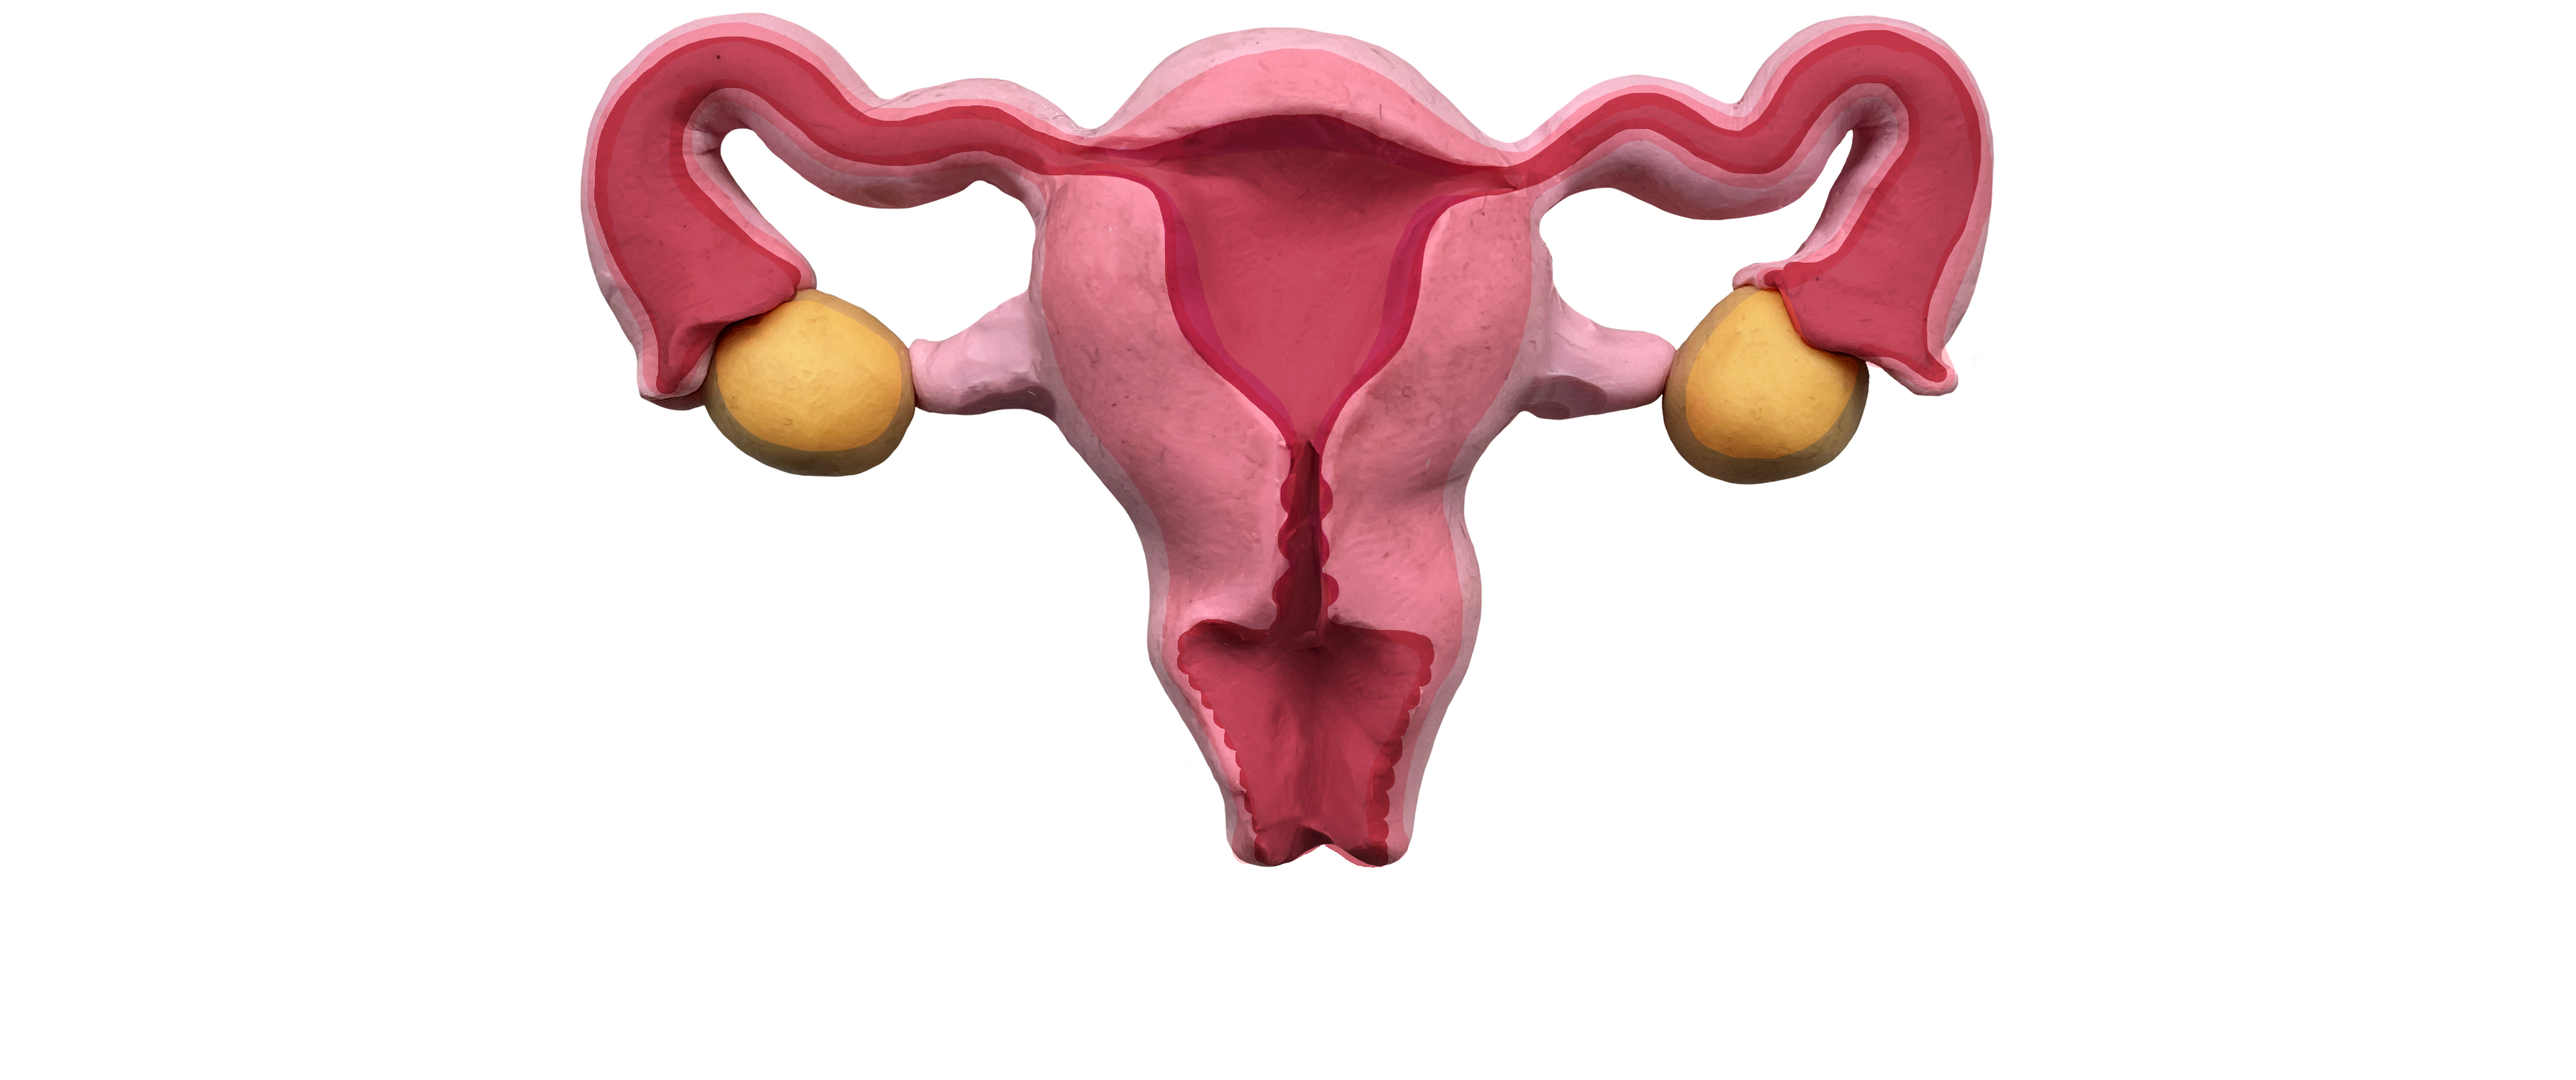
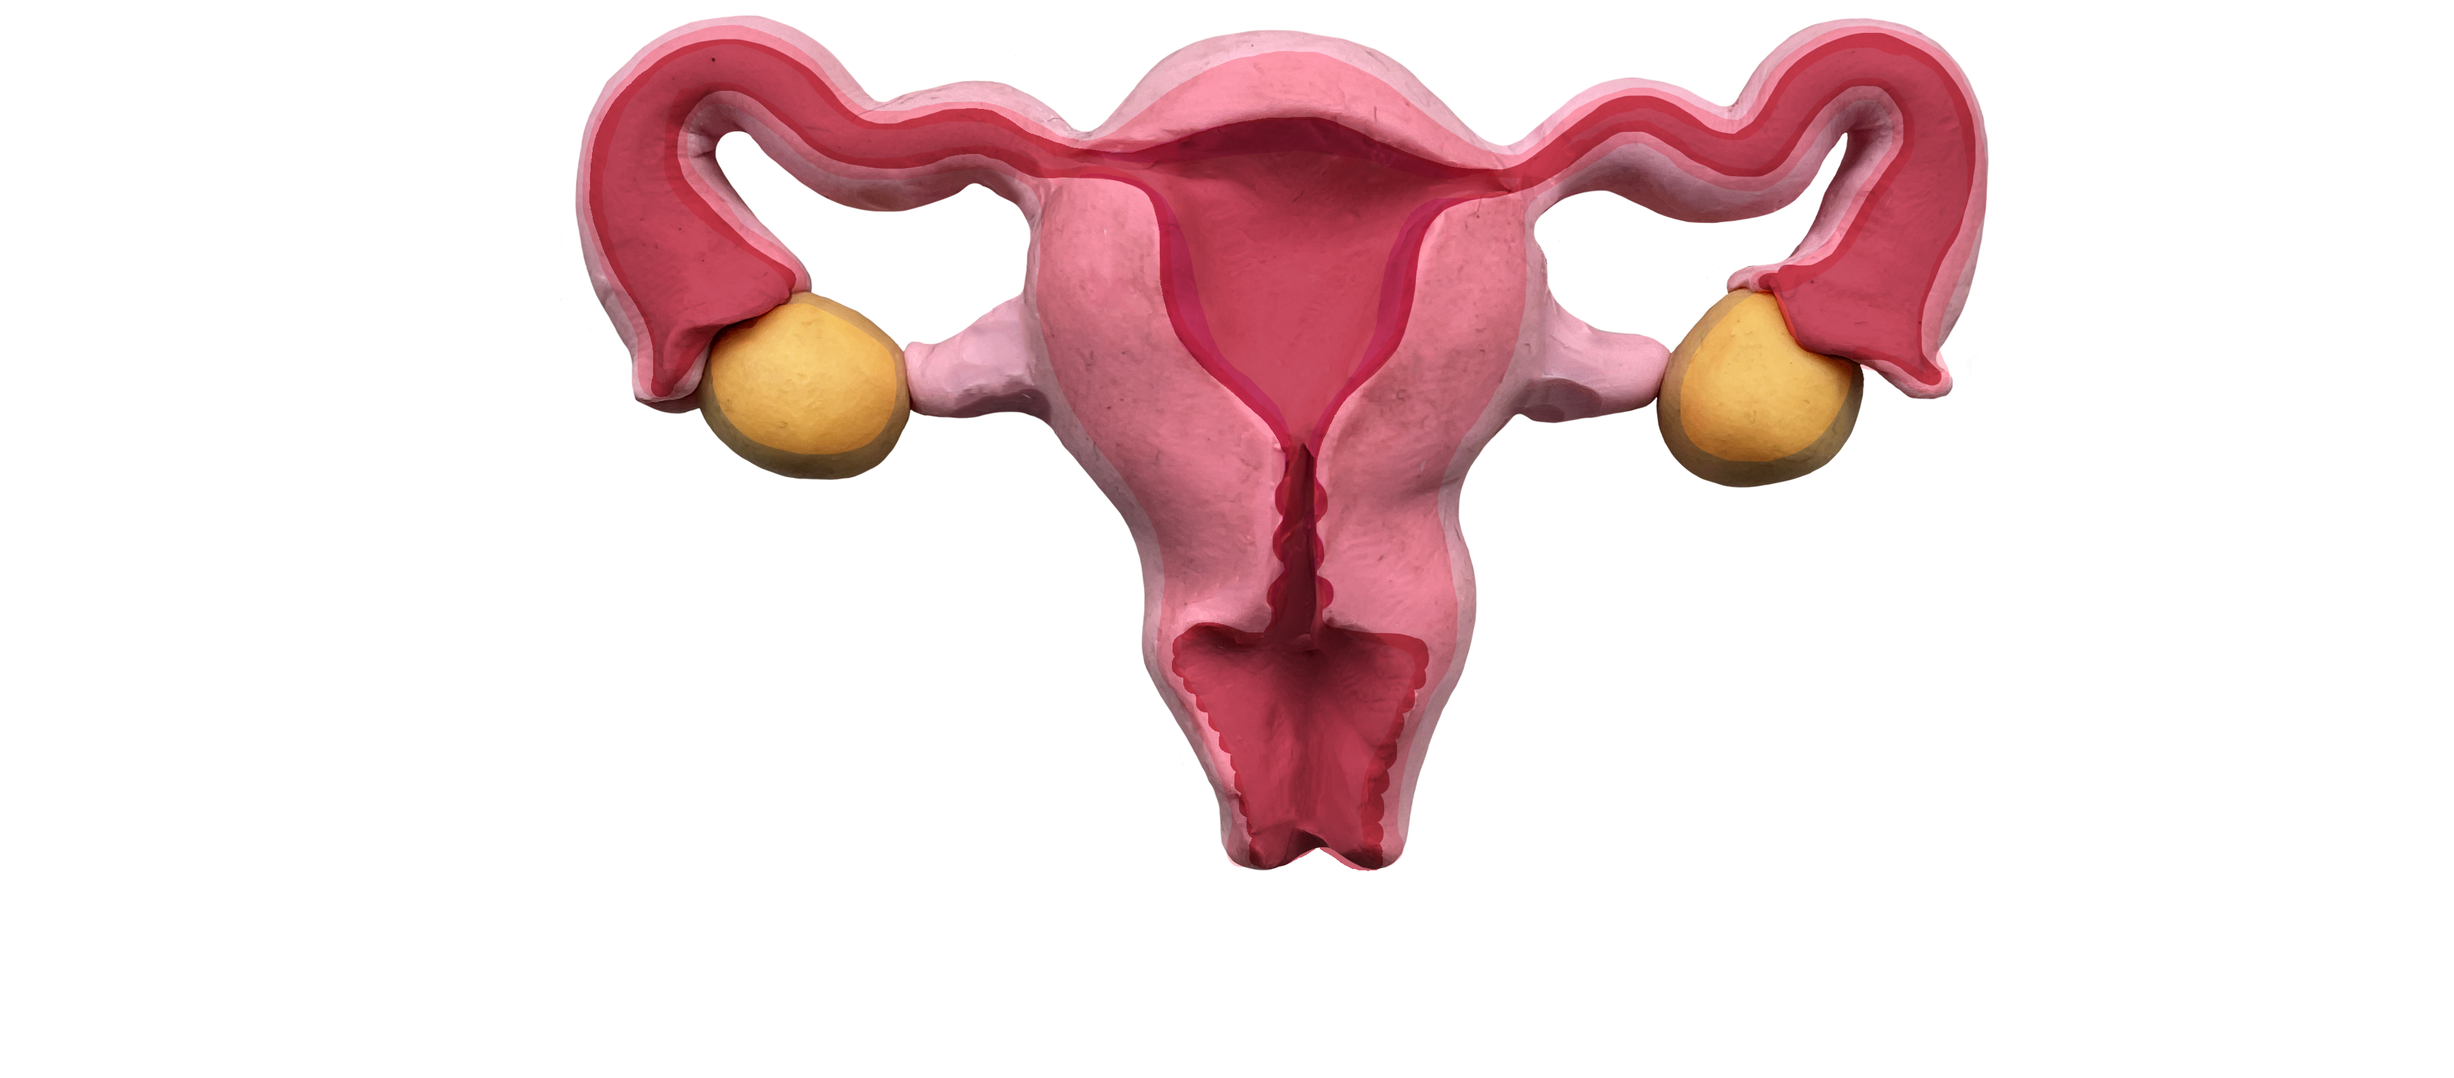
Added highlights for mobile

Changed region(s): [[0.2185, 0.0, 0.8116, 0.8105]]

diff --git a/src/pages/Game.tsx b/src/pages/Game.tsx
@@ -1,6 +1,6 @@
 import { useState } from "react";
 import diagram from "../images/Female internal/Diagram.png";
-import labels from "../images/Female internal";
+import { labels, highlights } from "../images/Female internal";
 import { today } from "../util/dates";
 import type { FormEvent } from "react";
 import { useLocalStorage } from "../hooks/useLocalStorage";
@@ -9,8 +9,14 @@ import parts from "../data/parts.json";
 import { Link } from "react-router-dom";
 import { Part, StoredGuesses } from "../lib/types";
 import { answer } from "../util/answer";
+import { BrowserView } from "react-device-detect";
 
 // const parts: Part[] = untypedParts;
+
+// TODO remove diagram labels on mobile and rely on highlights instead
+// TODO change labels from PNGs to SVGs
+// TODO I want to be able to click on labels to highlight the parts.
+// This can be done with SVGs and pointer event CSS
 
 export default function Game() {
   const [guessName, setGuessName] = useState("");
@@ -18,6 +24,7 @@ export default function Game() {
   const [win, setWin] = useState("");
   const [female, setFemale] = useState(true);
   const [internal, setInternal] = useState(true);
+  const [highlight, setHighlight] = useState("");
   const [storedGuesses, storeGuesses] = useLocalStorage<StoredGuesses>(
     "guesses",
     {
@@ -61,6 +68,7 @@ export default function Game() {
     if (validGuess) {
       setGuesses([...guesses, validGuess]);
       setGuessName("");
+      setHighlight(validGuess.name);
     }
   }
 
@@ -87,7 +95,8 @@ export default function Game() {
             onChange={(e) => setGuessName(e.currentTarget.value)}
             autoComplete="new-password"
             disabled={!!win}
-            className="border-[1px] border-black mx-2 px-2 py-1 bg-white w-full sm:w-fit"
+            className="border-[1px] border-black mx-2 px-2 py-1 
+            bg-white disabled:bg-gray-200 w-full sm:w-fit"
           />
           <ButtonSwitch win={win} />
         </div>
@@ -98,28 +107,34 @@ export default function Game() {
           <p className="text-center mt-4 text-green-700 font-bold">{win}</p>
         )}
       </form>
-      <div className="relative h-[173px] sm:h-[250px]">
+      <div className="relative h-[200px] sm:h-[250px] w-[500px] sm:w-full">
         <img
           src={diagram}
           alt="Female Internal"
-          className="absolute top-0 left-0"
+          className="absolute top-0 -left-[100px] sm:-left-7 z-0"
         />
-        {guesses.length >= 1 &&
-          guesses.map(({ name }) => {
-            if (name in labels) {
-              return (
-                <img
-                  key={name}
-                  src={labels[name]}
-                  alt={name}
-                  className="absolute top-0 left-0"
-                  style={{ filter: "contrast(20%)" }}
-                />
-              );
-            }
-          })}
+        <BrowserView>
+          {guesses.length >= 1 &&
+            guesses.map(({ name }) => {
+              if (name in labels) {
+                return (
+                  <img
+                    key={name}
+                    src={labels[name]}
+                    alt={name}
+                    className="absolute top-0 -left-7 z-20"
+                    style={{ filter: "contrast(20%)" }}
+                  />
+                );
+              }
+            })}
+        </BrowserView>
+        <img
+          src={highlights[highlight]}
+          alt={highlight}
+          className="absolute top-0 -left-[100px] sm:-left-7 z-0 opacity-80"
+        />
       </div>
-
       <div className="flex w-full justify-around items-center h-[52px] text-sm sm:text-base">
         <div className="flex h-fit space-x-4 sm:space-x-8 px-4 sm:px-7 py-2 justify-around bg-white border-gray-700 border-[1px] rounded-full">
           <p
@@ -165,18 +180,34 @@ export default function Game() {
         </div>
       </div>
       <p className="mt-line-height">Clue: {answer.clue}</p>
+
       <ul className="grid grid-cols-3 md:grid-cols-4 gap-x-3 mt-line-height">
         {guesses &&
           guesses.map(({ name }) => {
             return (
               <li
                 key={name}
-                className="mb-line-height px-1 text-sm leading-line-height"
+                className="mb-line-height px-1 text-sm leading-line-height cursor-pointer w-fit"
+                onClick={() => setHighlight(name)}
               >
                 {name}
               </li>
             );
           })}
+        {win &&
+          parts
+            .filter((part) => !guesses.includes(part))
+            .map(({ name }) => {
+              return (
+                <li
+                  key={name}
+                  className="mb-line-height px-1 text-sm leading-line-height cursor-pointer w-fit text-red-900"
+                  onClick={() => setHighlight(name)}
+                >
+                  {name}
+                </li>
+              );
+            })}
       </ul>
 
       {/* <button

diff --git a/src/images/Female internal/index.ts b/src/images/Female internal/index.ts
@@ -1,21 +1,36 @@
-import cervix from "./Cervix label.png";
-import fallopian from "./Fallopian tube label.png";
-import labiaMinora from "./Labia minora label.png";
-import ovary from "./Ovary label.png";
-import uterineLining from "./Uterine lining label.png";
-import uteras from "./Uterus label.png";
-import vagina from "./Vagina label.png";
+import cervixLabel from "./Cervix label.png";
+import cervixHighlight from "./Cervix highlight.png";
+import fallopianLabel from "./Fallopian tube label.png";
+import fallopianHighlight from "./Fallopian tube highlight.png";
+import labiaMinoraLabel from "./Labia minora label.png";
+import labiaMinoraHighlight from "./Labia minora highlight.png";
+import ovaryLabel from "./Ovary label.png";
+import ovaryHighlight from "./Ovary highlight.png";
+import uterineLiningLabel from "./Uterine lining label.png";
+import uterineLiningHighlight from "./Uterine lining highlight.png";
+import uterasLabel from "./Uterus label.png";
+import uterasHighlight from "./Uterus highlight.png";
+import vaginaLabel from "./Vagina label.png";
+import vaginaHighlight from "./Vagina highlight.png";
 
 type PictureIndex = { [key: string]: string };
 
-const pictures: PictureIndex = {
-  Cervix: cervix,
-  "Fallopian tubes": fallopian,
-  "Labia minora": labiaMinora,
-  Ovary: ovary,
-  "Uterine lining": uterineLining,
-  Uterus: uteras,
-  Vagina: vagina,
+export const labels: PictureIndex = {
+  Cervix: cervixLabel,
+  "Fallopian tubes": fallopianLabel,
+  "Labia minora": labiaMinoraLabel,
+  Ovary: ovaryLabel,
+  "Uterine lining": uterineLiningLabel,
+  Uterus: uterasLabel,
+  Vagina: vaginaLabel,
 };
 
-export default pictures;
+export const highlights: PictureIndex = {
+  Cervix: cervixHighlight,
+  "Fallopian tubes": fallopianHighlight,
+  "Labia minora": labiaMinoraHighlight,
+  Ovary: ovaryHighlight,
+  "Uterine lining": uterineLiningHighlight,
+  Uterus: uterasHighlight,
+  Vagina: vaginaHighlight,
+};

diff --git a/src/pages/Stats.tsx b/src/pages/Stats.tsx
@@ -1,5 +1,3 @@
-import React from "react";
-
 const data = [
   { name: "Today's guesses", value: 4 },
   { name: "Games won", value: 5 },
@@ -12,14 +10,16 @@ export default function Stats() {
     <div className="m-line-height">
       {/* <h2 className="text-2xl">Statistics</h2> */}
       <table className="text-base table-auto w-1/2">
-        {data.map(({ name, value }) => {
-          return (
-            <tr key={name} className="h-line-height">
-              <td>{name}</td>
-              <td>{value}</td>
-            </tr>
-          );
-        })}
+        <tbody>
+          {data.map(({ name, value }) => {
+            return (
+              <tr key={name} className="h-line-height">
+                <td>{name}</td>
+                <td>{value}</td>
+              </tr>
+            );
+          })}
+        </tbody>
       </table>
     </div>
   );

diff --git a/src/componenets/Doodles.tsx b/src/componenets/Doodles.tsx
@@ -1,23 +1,17 @@
 import { useEffect, useState } from "react";
 import data from "../data/doodles_categorized.json";
+import useInterval from "../hooks/useInterval";
 import styles from "../styles/transition.module.css";
 
 export default function Doodles({ children }: any) {
   const [doodles, setDoodles] = useState<string[]>([]);
   const [count, setCount] = useState(1);
 
-  const timer = setTimeout(() => {
-    if (count <= data.length) {
-      setCount(count + 1);
-    }
-  }, 3000);
+  useInterval(() => setCount(count + 1), 3000);
 
   useEffect(() => {
     const paths = data.map((p) => p.path);
     setDoodles(paths.slice(0, count));
-    return () => {
-      clearTimeout(timer);
-    };
   }, [count]);
 
   return (

diff --git a/src/hooks/useInterval.tsx b/src/hooks/useInterval.tsx
@@ -1,0 +1,23 @@
+import { useEffect, useRef } from "react";
+
+type Callback = () => void;
+
+export default function useInterval(callback: Callback, delay: number) {
+  const savedCallback = useRef<Callback>(null!);
+
+  // Remember the latest callback.
+  useEffect(() => {
+    savedCallback.current = callback;
+  }, [callback]);
+
+  // Set up the interval.
+  useEffect(() => {
+    function tick() {
+      savedCallback.current();
+    }
+    if (delay !== null) {
+      let id = setInterval(tick, delay);
+      return () => clearInterval(id);
+    }
+  }, [delay]);
+}
